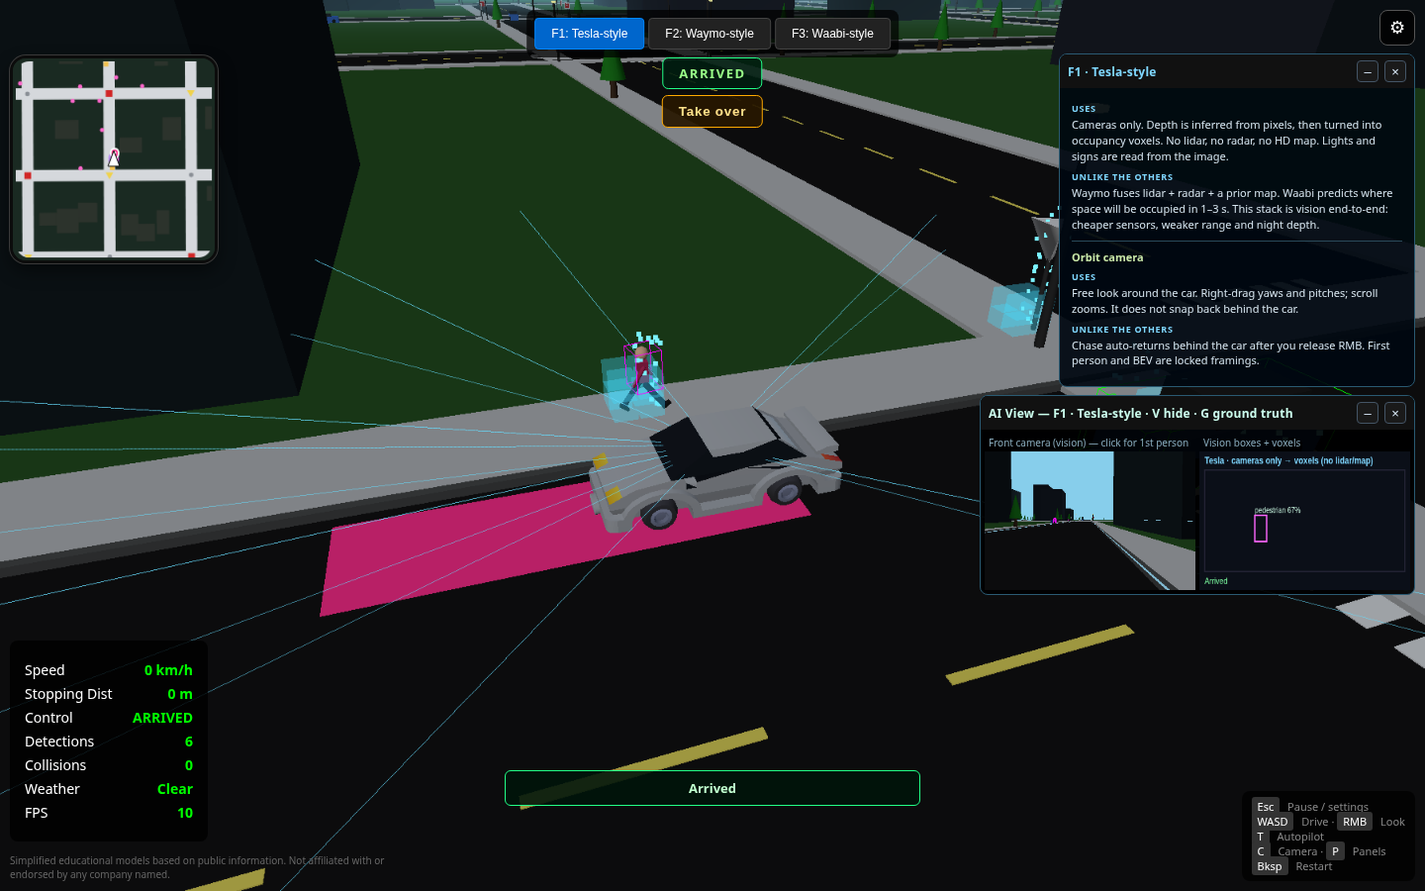
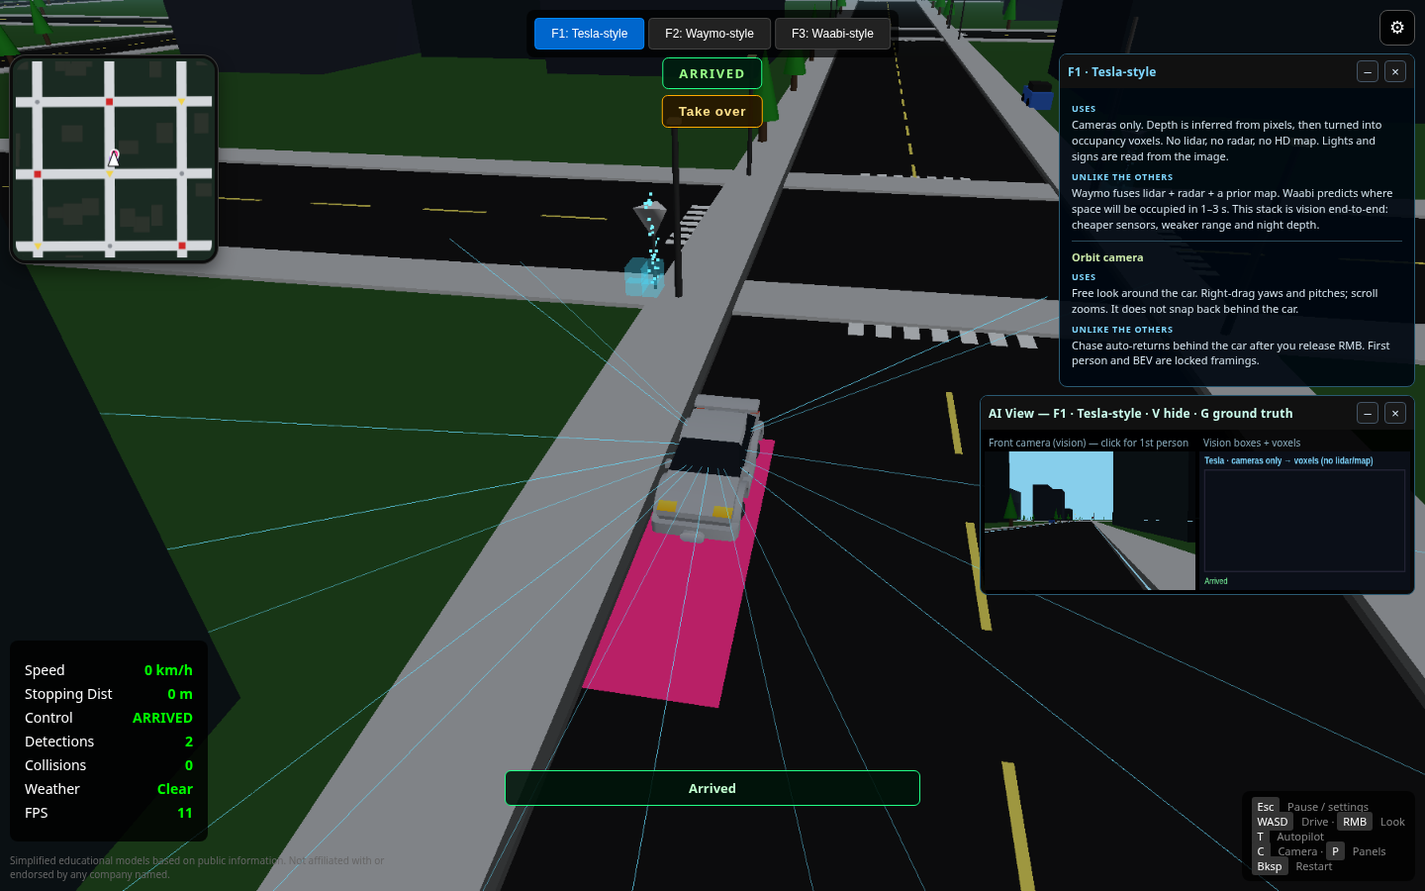
fix: park 0.3 m off the curb with heading-aware asphalt tests
PULL_OVER_OFFSET is 5.775 m so the sedan's right edge sits ~0.3 m
inside the curb. The pink bay is 8.4×2.45 m with its outer edge flush
on the curb. Arrival tests use onArrivalAsphalt / distanceToRightCurb
for any heading — |x|<7 and pointOnAsphalt were N–S-only oracles.

diff --git a/game/src/sim/destination.test.ts b/game/src/sim/destination.test.ts
@@ -4,15 +4,34 @@ import { normalizeAngle, vec3, vec3Length } from './math';
 import { createPlannerState, planTrajectory, remainingRouteDistance } from '../planning/planner';
 import { createEgoState, updateVehicle, vehicleInputFromAccel } from './vehicle';
 import {
+  CURB_CLEARANCE,
   PULL_OVER_OFFSET,
+  ROAD_HALF,
+  distanceToRightCurb,
   lateralFromCenter,
-  pointOnAsphalt,
+  onArrivalAsphalt,
   sedanCorners,
   snapHeadingToGrid,
   tripRoute,
 } from './rightLane';
 import { ROUTE_DEST } from '../ui/minimapRoute';
 import { computeDecision } from '../render/perceptionViz';
+
+/** Arrival pose: every corner on this heading's asphalt, ~0.3 m off the right curb. */
+function expectOnArrivalBay(x: number, y: number, yaw: number): void {
+  const corners = sedanCorners(x, y, yaw);
+  for (const c of corners) {
+    expect(onArrivalAsphalt(c.x, c.y, yaw)).toBe(true);
+    expect(distanceToRightCurb(c.x, c.y, yaw)).toBeGreaterThan(0);
+  }
+  const lat = lateralFromCenter(x, y, yaw);
+  expect(lat).toBeGreaterThan(PULL_OVER_OFFSET - 0.45);
+  expect(lat).toBeLessThan(PULL_OVER_OFFSET + 0.45);
+  const rightGap = Math.min(...corners.map((c) => distanceToRightCurb(c.x, c.y, yaw)));
+  expect(rightGap).toBeGreaterThan(0.12);
+  expect(rightGap).toBeLessThan(CURB_CLEARANCE + 0.35);
+  expect(ROAD_HALF - lat).toBeGreaterThan(CURB_CLEARANCE + 0.5);
+}
 
 describe('roadside destination arrival', () => {
   it('uses a hot-pink destination colour', () => {
@@ -48,7 +67,7 @@ describe('roadside destination arrival', () => {
       planner = newState;
       ego = updateVehicle(ego, vehicleInputFromAccel(output.acceleration, output.steering), dt);
       const { x, y } = ego.transform.position;
-      if (Math.abs(x) > 7.2) leftAsphalt = true;
+      if (!onArrivalAsphalt(x, y, ego.transform.rotation, 7.2)) leftAsphalt = true;
       if (vec3Length(ego.velocity) < 0.25 && Math.hypot(x - dest.x, y - dest.y) < 4) break;
     }
     const speed = vec3Length(ego.velocity);
@@ -87,25 +106,11 @@ describe('roadside destination arrival', () => {
     }
     const yawErr = Math.abs(normalizeAngle(ego.transform.rotation - roadHeading));
     expect(yawErr).toBeLessThan(5 * Math.PI / 180);
-    const corners = sedanCorners(
+    expectOnArrivalBay(
       ego.transform.position.x,
       ego.transform.position.y,
       ego.transform.rotation,
     );
-    for (const c of corners) {
-      expect(pointOnAsphalt(c.x, c.y)).toBe(true);
-      expect(Math.abs(c.x)).toBeLessThan(7);
-    }
-    expect(lateralFromCenter(
-      ego.transform.position.x,
-      ego.transform.position.y,
-      ego.transform.rotation,
-    )).toBeGreaterThan(4.4);
-    expect(lateralFromCenter(
-      ego.transform.position.x,
-      ego.transform.position.y,
-      ego.transform.rotation,
-    )).toBeLessThan(6.2);
   });
 
   it('holds with an Arrived banner after the live sim reaches the pad', () => {
@@ -124,14 +129,11 @@ describe('roadside destination arrival', () => {
       sim.getState().ego.transform.rotation - snapHeadingToGrid(sim.getTripHeading()),
     ));
     expect(yawErr).toBeLessThan(5 * Math.PI / 180);
-    for (const c of sedanCorners(
+    expectOnArrivalBay(
       sim.getState().ego.transform.position.x,
       sim.getState().ego.transform.position.y,
       sim.getState().ego.transform.rotation,
-    )) {
-      expect(pointOnAsphalt(c.x, c.y)).toBe(true);
-      expect(Math.abs(c.x)).toBeLessThan(7);
-    }
+    );
     const banner = computeDecision({
       stack: 'tesla',
       ego: sim.getState().ego,
@@ -207,14 +209,11 @@ describe('roadside destination arrival', () => {
     const yawErr = Math.abs(normalizeAngle(ego.transform.rotation - (-Math.PI / 2)));
     expect(yawErr).toBeLessThan(5 * Math.PI / 180);
     expect(ego.transform.position.x).toBeLessThan(-4);
-    for (const c of sedanCorners(
+    expectOnArrivalBay(
       ego.transform.position.x,
       ego.transform.position.y,
       ego.transform.rotation,
-    )) {
-      expect(pointOnAsphalt(c.x, c.y)).toBe(true);
-      expect(Math.abs(c.x)).toBeLessThan(7);
-    }
+    );
   });
 
   it('live sim reaches an opposite-side pad and holds Arrived without a cruise-stuck stop', () => {
@@ -245,6 +244,11 @@ describe('roadside destination arrival', () => {
       sim.getState().ego.transform.rotation - snapHeadingToGrid(sim.getTripHeading()),
     ));
     expect(yawErr).toBeLessThan(5 * Math.PI / 180);
+    expectOnArrivalBay(
+      sim.getState().ego.transform.position.x,
+      sim.getState().ego.transform.position.y,
+      sim.getState().ego.transform.rotation,
+    );
     expect(computeDecision({
       stack: 'tesla',
       ego: sim.getState().ego,

diff --git a/game/src/sim/rightLane.ts b/game/src/sim/rightLane.ts
@@ -11,16 +11,27 @@ export const LANE_OFFSET = 3.5;
 /** Keep the tyres off the yellow line and out of the oncoming lane. */
 export const LANE_INNER = 1.6;
 export const LANE_OUTER = 5.8;
-/** Parked offset: right of the driving lane. Sedan half-width 0.925 → right edge ~6.3 m, curb at 7 m. */
-export const PULL_OVER_OFFSET = 5.4;
+/** Fitted sedan half-width (1.85 m body). */
+export const SEDAN_HALF_WIDTH = 0.925;
+/** Parked tyre-to-curb gap. */
+export const CURB_CLEARANCE = 0.3;
+/** Asphalt half-width of the 14 m roads. Curb face sits here. */
+export const ROAD_HALF = 7;
+/**
+ * Parked offset: right-hand bay, ~0.3 m off the curb.
+ * 7 − 0.3 − 0.925 = 5.775 m. Right edge at 6.7 m, pad outer flush at 7 m.
+ */
+export const PULL_OVER_OFFSET = ROAD_HALF - CURB_CLEARANCE - SEDAN_HALF_WIDTH;
+/** Pink bay, long axis along the road. */
+export const PAD_ALONG = 8.4;
+/** Pink bay width: centered on the parked pose, outer edge at the curb. */
+export const PAD_WIDTH = 2 * (ROAD_HALF - PULL_OVER_OFFSET);
 /** Ease laterally onto the pad over this many metres. */
 export const PULL_OVER_LENGTH = 16;
 /** Straight, road-parallel tail so the nose matches the curb at the stop. */
 export const PULL_OVER_STRAIGHT = 10;
 /** Keep the pad out of the intersection box. */
 export const DEST_INTERSECTION_CLEAR = 16;
-/** Asphalt half-width of the 14 m roads. */
-export const ROAD_HALF = 7;
 /** City grid step (matches `world.ts` MAP_BLOCK). */
 export const GRID_STEP = 100;
 /** Click this far left of the naive approach counts as an opposite-side dest. */
@@ -327,7 +338,7 @@ export function sedanCorners(x: number, y: number, yaw: number): Array<{ x: numb
   const uy = Math.sin(yaw);
   const r = headingRight(yaw);
   const hl = 2.35;
-  const hw = 0.925;
+  const hw = SEDAN_HALF_WIDTH;
   const out: Array<{ x: number; y: number }> = [];
   for (const s of [-1, 1]) {
     for (const t of [-1, 1]) {
@@ -339,6 +350,22 @@ export function sedanCorners(x: number, y: number, yaw: number): Array<{ x: numb
 
 export function pointOnAsphalt(x: number, y: number, half = ROAD_HALF): boolean {
   return Math.abs(x - nearestGridLine(x)) <= half || Math.abs(y - nearestGridLine(y)) <= half;
+}
+
+/**
+ * On the asphalt of the road `heading` is following — not the cross street.
+ * A southbound corner uses |x − axis| < 7; an eastbound corner uses |y − axis| < 7.
+ */
+export function onArrivalAsphalt(x: number, y: number, heading: number, half = ROAD_HALF): boolean {
+  const yaw = snapHeadingToGrid(heading);
+  const ns = Math.abs(Math.sin(yaw)) >= Math.abs(Math.cos(yaw));
+  if (ns) return Math.abs(x - nearestGridLine(x)) < half;
+  return Math.abs(y - nearestGridLine(y)) < half;
+}
+
+/** Metres from a point to the right-hand curb of `heading`'s road. Negative = over the sidewalk. */
+export function distanceToRightCurb(x: number, y: number, heading: number): number {
+  return ROAD_HALF - lateralFromCenter(x, y, heading);
 }
 
 /** Replace the last metres of a lane route with an ease, then a road-parallel tail onto `dest`. */

diff --git a/game/src/sim/rightLane.test.ts b/game/src/sim/rightLane.test.ts
@@ -4,15 +4,22 @@ import { vec3 } from './math';
 import { createPlannerState, planTrajectory } from '../planning/planner';
 import { createEgoState, updateVehicle, vehicleInputFromAccel } from './vehicle';
 import {
+  CURB_CLEARANCE,
   LANE_OFFSET,
+  PAD_WIDTH,
   PULL_OVER_OFFSET,
+  ROAD_HALF,
+  SEDAN_HALF_WIDTH,
+  distanceToRightCurb,
   inRightLane,
   lateralFromCenter,
   mergeIntoLaneRoute,
+  onArrivalAsphalt,
   placeInRightLane,
   roadsideDestination,
   resolveTripDestination,
   rightLaneRoute,
+  sedanCorners,
   straddlesCenter,
   tripRoute,
   turnKind,
@@ -138,6 +145,45 @@ describe('right-hand traffic lanes', () => {
     const mid = route[Math.floor(route.length / 2)]!;
     expect(mid.x).toBeLessThan(tail.x);
     expect(inRightLane(mid.x, mid.y, Math.PI / 2)).toBe(true);
+  });
+
+  it('keeps the parked sedan ~0.3 m off the curb on every heading', () => {
+    expect(PULL_OVER_OFFSET).toBeCloseTo(ROAD_HALF - CURB_CLEARANCE - SEDAN_HALF_WIDTH);
+    expect(PAD_WIDTH).toBeCloseTo(2 * (ROAD_HALF - PULL_OVER_OFFSET));
+    const poses: Array<{ x: number; y: number; yaw: number }> = [
+      { x: PULL_OVER_OFFSET, y: 40, yaw: Math.PI / 2 },
+      { x: -PULL_OVER_OFFSET, y: 78, yaw: -Math.PI / 2 },
+      { x: 50, y: -PULL_OVER_OFFSET, yaw: 0 },
+      { x: -50, y: PULL_OVER_OFFSET, yaw: Math.PI },
+    ];
+    for (const pose of poses) {
+      const corners = sedanCorners(pose.x, pose.y, pose.yaw);
+      for (const c of corners) {
+        expect(onArrivalAsphalt(c.x, c.y, pose.yaw)).toBe(true);
+        expect(distanceToRightCurb(c.x, c.y, pose.yaw)).toBeGreaterThan(0.12);
+      }
+      const rightGap = Math.min(...corners.map((c) => distanceToRightCurb(c.x, c.y, pose.yaw)));
+      expect(rightGap).toBeCloseTo(CURB_CLEARANCE, 2);
+      const padOuter = lateralFromCenter(pose.x, pose.y, pose.yaw) + PAD_WIDTH / 2;
+      expect(padOuter).toBeCloseTo(ROAD_HALF, 5);
+    }
+  });
+
+  it('eastbound asphalt follows the Y curb — |x|<7 is the wrong oracle', () => {
+    const dest = roadsideDestination(vec3(50, 0, 0), 0);
+    expect(dest.y).toBeCloseTo(-PULL_OVER_OFFSET);
+    const corners = sedanCorners(dest.x, dest.y, 0);
+    for (const c of corners) {
+      expect(Math.abs(c.x)).toBeGreaterThan(7);
+      expect(onArrivalAsphalt(c.x, c.y, 0)).toBe(true);
+      expect(distanceToRightCurb(c.x, c.y, 0)).toBeGreaterThan(0.12);
+    }
+    const overCurb = sedanCorners(50, -(ROAD_HALF + 0.4), 0);
+    const rightmost = overCurb.reduce((a, b) => (
+      distanceToRightCurb(a.x, a.y, 0) < distanceToRightCurb(b.x, b.y, 0) ? a : b
+    ));
+    expect(onArrivalAsphalt(rightmost.x, rightmost.y, 0)).toBe(false);
+    expect(distanceToRightCurb(rightmost.x, rightmost.y, 0)).toBeLessThan(0);
   });
 
   it('snaps an opposite-side click onto the left curb and arrives heading south', () => {

diff --git a/game/src/main.ts b/game/src/main.ts
@@ -8,7 +8,7 @@ import { Simulation } from './sim/simulation';
 import { vec3Length, egoToWorld, clamp } from './sim/math';
 import { formatGear } from './sim/vehicle';
 import { nearestGridLine, snapToRoad, snapTripEnd, roadRoute } from './sim/world';
-import { destinationPinWorld } from './sim/rightLane';
+import { destinationPinWorld, PAD_ALONG, PAD_WIDTH } from './sim/rightLane';
 import { COCKPIT, HAND_LOCK_DEG, handWheelRotation } from './sim/cabinView';
 import {
   applyCameraLayers,
@@ -468,7 +468,7 @@ function createDestinationMarker(): THREE.Group {
   });
   const white = new THREE.MeshLambertMaterial({ color: 0xffffff });
 
-  const pad = new THREE.Mesh(new THREE.PlaneGeometry(8.4, 2.4), pinkPad);
+  const pad = new THREE.Mesh(new THREE.PlaneGeometry(PAD_ALONG, PAD_WIDTH), pinkPad);
   pad.rotation.x = -Math.PI / 2;
   pad.position.y = 0.035;
   pad.receiveShadow = true;
@@ -476,7 +476,7 @@ function createDestinationMarker(): THREE.Group {
 
   const pin = new THREE.Group();
   pin.name = 'dest-pin';
-  pin.position.set(3.15, 0, 1.1);
+  pin.position.set(PAD_ALONG / 2 - 1.05, 0, PAD_WIDTH / 2 - 0.12);
   const stem = new THREE.Mesh(new THREE.CylinderGeometry(0.05, 0.05, 1.85, 8), white);
   stem.position.y = 0.95;
   stem.castShadow = true;
@@ -3024,6 +3024,8 @@ function applyDemo(kind: string) {
     tripStart = { x: 0, y: 50 };
     tripEnd = { x: 0, y: 78 };
     beginGame('autopilot');
+    simulation.getState().trafficVehicles = [];
+    simulation.getState().pedestrians = [];
     setCameraMode('orbit');
     orbitYaw = 0.2;
     orbitPitch = 0.34;
@@ -3035,6 +3037,8 @@ function applyDemo(kind: string) {
     tripStart = { x: 0, y: 55 };
     tripEnd = { x: -5, y: 78 };
     beginGame('autopilot');
+    simulation.getState().trafficVehicles = [];
+    simulation.getState().pedestrians = [];
     setCameraMode('orbit');
     orbitYaw = 0.15;
     orbitPitch = 0.38;
@@ -3463,6 +3467,10 @@ async function init() {
     switchStack,
     getTripDestination: () => simulation.getTripDestination(),
     hasArrived: () => simulation.hasArrived(),
+    clearAgents() {
+      simulation.getState().trafficVehicles = [];
+      simulation.getState().pedestrians = [];
+    },
     getTripHeading: () => simulation.getTripHeading(),
     getEgo: () => {
       const e = simulation.getState().ego;

diff --git a/wiki/systems/planning.md b/wiki/systems/planning.md
@@ -8,7 +8,7 @@ sources: [13, 18, 20, 25, 27, 28, 29, 30, 33]
 
 `planTrajectory` is a rule-based pure-pursuit follower. It aims a short look-ahead along `route`, slows before a sharp bend (`nextCorner`), and stays at ~3.8 m/s until the nose matches the new segment so the car does not cut grass ([[pr-18]]). Comfort decel is ~3 m/s²; emergency / oracle is ~9 m/s² ([[pr-27]]). Both go through `vehicleInputFromAccel` onto the sedan ABS brake in `updateVehicle` — not a separate integrator.
 
-Map clicks still snap to the road axis (`snapToRoad`, [[pr-13]]). End clicks use `snapTripEnd` so a junction click stays on the start road and keeps the clicked curb side. Ego trips then follow `tripRoute`: a Manhattan `rightLaneRoute` (right turns cut the near corner; left turns go wide, [[pr-20]], which **supersedes** driving the centerline `roadRoute` for `beginTrip`) plus a lateral ease and a **road-parallel tail** onto a roadside pad at `PULL_OVER_OFFSET` (5.4 m). The pad is on the **right-hand curb of the arrival heading**. A click left of that approach is an opposite-side dest: the pad stays on that curb and the route does a **legal left U-turn at the next intersection** (never a mid-block median cross), then pulls over. Same-road start/end no longer detour through the next grid crossing. The pad is slid backward if the click sits in a junction. `remainingRouteDistance` creeps in the last 12 m and stops in the last 4 m. On the pad the sim sets `arrived`, holds the brakes, and the banner reads **Arrived** ([[pr-30]]). Standing still in-lane while cruising with the pad still metres away triggers `reengageAutopilot()`. The 3D pin sits at the front-right of the pad and hides once parked so it does not pierce the body.
+Map clicks still snap to the road axis (`snapToRoad`, [[pr-13]]). End clicks use `snapTripEnd` so a junction click stays on the start road and keeps the clicked curb side. Ego trips then follow `tripRoute`: a Manhattan `rightLaneRoute` (right turns cut the near corner; left turns go wide, [[pr-20]], which **supersedes** driving the centerline `roadRoute` for `beginTrip`) plus a lateral ease and a **road-parallel tail** onto a roadside pad at `PULL_OVER_OFFSET` (5.775 m, ~0.3 m tyre-to-curb). The pad is on the **right-hand curb of the arrival heading**. A click left of that approach is an opposite-side dest: the pad stays on that curb and the route does a **legal left U-turn at the next intersection** (never a mid-block median cross), then pulls over. Same-road start/end no longer detour through the next grid crossing. The pad is slid backward if the click sits in a junction. `remainingRouteDistance` creeps in the last 12 m and stops in the last 4 m. On the pad the sim sets `arrived`, holds the brakes, and the banner reads **Arrived** ([[pr-30]]). Standing still in-lane while cruising with the pad still metres away triggers `reengageAutopilot()`. The 3D pin sits at the front-right of the pad and hides once parked so it does not pierce the body.
 
 `input.rule` from `decideIntersection` caps `desiredSpeed` and forces a stop when `mustStop` ([[traffic-rules]]). `obstacleAhead` and `findClosestObstacleAhead` skip roadside statics (poles, trees, signs, buildings), so a corner pole does not full-brake a turn ([[pr-28]]). Contact with those objects still collides ([[collisions]]).
 

diff --git a/wiki/systems/testing.md b/wiki/systems/testing.md
@@ -23,7 +23,7 @@ Collision-response tests live in `collision.test.ts` (OBB/capsule overlap, spati
 
 `poleTurn.test.ts` drives left / right / straight through a grid corner that has city poles and asserts `obstacleAhead` never full-brakes on them.
 
-`destination.test.ts` / `rightLane.test.ts` cover the roadside pad (right-curb offset, slide off junctions, `tripRoute` tail) and a planner+vehicle pull-over that stops on the pad. Parked pose asserts heading error **< 5°** and every sedan corner on asphalt (`|x| < 7`). The live sim then holds with banner **Arrived**. Opposite-side clicks assert a U-turn (route goes past the next junction) and Arrived on the left curb heading-aligned, with no cruise-stuck in-lane stop. `perceptionViz.test.ts` asserts world-space `%` sprites stay off. Minimap tests assert the dest pin is `#ff2d8a` and still projects in manual. `?demo=arrive` / `?demo=arrive-opp` are the screenshot rigs.
+`destination.test.ts` / `rightLane.test.ts` cover the roadside pad (right-curb offset 5.775 m, slide off junctions, `tripRoute` tail) and a planner+vehicle pull-over that stops on the pad. Parked pose asserts heading error **< 5°** and every sedan corner on the **arrival road** (`onArrivalAsphalt` + `distanceToRightCurb` ~0.3 m), not `|x| < 7` (N–S only) or `pointOnAsphalt` (OR of both axes). Eastbound unit cases use the Y curb so `|x| < 7` would wrongly fail x≈50. The live sim then holds with banner **Arrived**. Opposite-side clicks assert a U-turn (route goes past the next junction) and Arrived on the left curb heading-aligned, with no cruise-stuck in-lane stop. `perceptionViz.test.ts` asserts world-space `%` sprites stay off. Minimap tests assert the dest pin is `#ff2d8a` and still projects in manual. `?demo=arrive` / `?demo=arrive-opp` are the screenshot rigs (those two demos clear traffic and pedestrians so a ped cannot steal the arrival).
 
 Screenshots used in PRs and `README.md` sit in `docs/screenshots/`. They are captured from the running Vite app (headless Chrome or a live session), not from unit tests. Intersection shots 16–20 use `?seed=3` and `?demo=`. Cabin/sedan shots for [[pr-22]] are `cabin3_cockpit_*.png` (including `cabin3_cockpit_wide.png`), `cabin3_exterior_*.png` (including `cabin3_exterior_hood.png`), and `cabin3_wheel_closeup.png` (staged; **superseded** as a live-view record by the driving stills from [[pr-25]]). Traffic-flow shots 21–23 for [[pr-24]] use `?seed=3&demo=mix` and `?demo=stop`.
 

diff --git a/wiki/entities/right-lane.md b/wiki/entities/right-lane.md
@@ -6,9 +6,9 @@ sources: [20, 30, 33]
 
 # `rightLane.ts`
 
-Right-hand traffic geometry. Heading θ: right is `(sin θ, −cos θ)`. Eastbound right is −Y; northbound right is +X. `LANE_OFFSET` is 3.5 m (`LANE_INNER` 1.6 … `LANE_OUTER` 5.8). `PULL_OVER_OFFSET` is 5.4 m so a 1.85 m sedan parks with its right edge ~6.3 m, inside the curb at 7 m. `appendPullOver` eases laterally then adds a `PULL_OVER_STRAIGHT` (10 m) road-parallel tail.
+Right-hand traffic geometry. Heading θ: right is `(sin θ, −cos θ)`. Eastbound right is −Y; northbound right is +X. `LANE_OFFSET` is 3.5 m (`LANE_INNER` 1.6 … `LANE_OUTER` 5.8). `PULL_OVER_OFFSET` is `ROAD_HALF − CURB_CLEARANCE − SEDAN_HALF_WIDTH` = 5.775 m, so a 1.85 m sedan parks with its right edge at 6.7 m (~0.3 m off the curb face at 7 m). The pink bay is `PAD_ALONG` 8.4 m along-road × `PAD_WIDTH` 2.45 m lateral, centered on the parked pose so the outer edge sits flush on the curb. `appendPullOver` eases laterally then adds a `PULL_OVER_STRAIGHT` (10 m) road-parallel tail.
 
-`rightLaneRoute` builds a Manhattan trip in that lane: right turns cut the near corner; left turns go wide into the far right lane. `resolveTripDestination` puts the pad on the right curb of the arrival heading; a left-of-approach click sets `opposite` and `tripRoute` / `mergeIntoLaneRoute` insert `intersectionUTurn` at `nextIntersectionAhead`. Same-road corners are start→end only — they do not bounce through the next crossing. `mergeIntoLaneRoute` still cruises without a pad when there is no trip goal. `sedanCorners` / `pointOnAsphalt` are the parked-pose overlap checks.
+`rightLaneRoute` builds a Manhattan trip in that lane: right turns cut the near corner; left turns go wide into the far right lane. `resolveTripDestination` puts the pad on the right curb of the arrival heading; a left-of-approach click sets `opposite` and `tripRoute` / `mergeIntoLaneRoute` insert `intersectionUTurn` at `nextIntersectionAhead`. Same-road corners are start→end only — they do not bounce through the next crossing. `mergeIntoLaneRoute` still cruises without a pad when there is no trip goal. Parked-pose checks use `onArrivalAsphalt` (the arrival heading's road only) and `distanceToRightCurb` — not `pointOnAsphalt` / `|x| < 7`, which only match N–S streets.
 
 ## Key files
 

diff --git a/wiki/entities/main-ts.md b/wiki/entities/main-ts.md
@@ -10,7 +10,7 @@ Browser entry: Three.js scene, HUD, start menu, cameras, AI View, input, and the
 
 F3 BEV heatmaps are painted in `renderBEVHeatmaps` via `runWaabiStack` (the extracted `bevOverlay.ts` path from [[pr-26]] is gone).
 
-After [[pr-20]] it builds 3D stop/yield signs and stop-line quads, paints junction marks on the minimap, counts Tesla HUD detections from vision, and reads `?seed=` (default 3) plus `?demo=lane|left|right|stop|yield|mix|queue|arrive|arrive-opp`. Collision shots use `?demo=hit-car|hit-pole|hit-sign|hit-ped`. Fallen poles/signs and tumbling pedestrians are posed from `brokenFurniture` / ped tumble fields. A trip paints a pink 8.4×2.4 m pad; the pin sits at the pad's front-right and hides after `hasArrived()`. The same colour marks the minimap. End-map clicks use `snapTripEnd`.
+After [[pr-20]] it builds 3D stop/yield signs and stop-line quads, paints junction marks on the minimap, counts Tesla HUD detections from vision, and reads `?seed=` (default 3) plus `?demo=lane|left|right|stop|yield|mix|queue|arrive|arrive-opp`. Collision shots use `?demo=hit-car|hit-pole|hit-sign|hit-ped`. Fallen poles/signs and tumbling pedestrians are posed from `brokenFurniture` / ped tumble fields. A trip paints a pink 8.4×2.45 m pad (outer edge flush on the curb); the pin sits at the pad's front-right and hides after `hasArrived()`. The same colour marks the minimap. End-map clicks use `snapTripEnd`.
 
 [[pr-25]] locks the hood camera to cockpit eye anchors, stacks/drags the right-side HUD panels, and wires T + the centre banner to `reengageAutopilot`.
 

diff --git a/wiki/sources/pr-30.md b/wiki/sources/pr-30.md
@@ -10,10 +10,10 @@ sources: [30]
 
 Map trips end at a **hot-pink roadside pad** (`#ff2d8a`), not in the driving-lane center.
 
-- `tripRoute` = `rightLaneRoute` + a lateral ease and a road-parallel tail onto `PULL_OVER_OFFSET` (5.4 m). Parks heading-aligned, body on asphalt. Junction clicks slide the pad backward.
+- `tripRoute` = `rightLaneRoute` + a lateral ease and a road-parallel tail onto `PULL_OVER_OFFSET` (then 5.4 m; **superseded** by 5.775 m / ~0.3 m curb gap in [[pr-33]]). Parks heading-aligned, body on asphalt. Junction clicks slide the pad backward.
 - Opposite-side / wrong-curb placement and the in-lane 0 km/h cruise-stop are **superseded** by [[pr-33]] (legal U-turn + `snapTripEnd`).
-- On the pad: `arrived` holds the brakes, banner **Arrived**, Control **ARRIVED**. The 3D pin sits at the front-right of the 8.4×2.4 m pad and hides when parked.
-- Tests: parked heading error < 5°, every sedan corner on asphalt (`|x| < 7`), live sim holds Arrived.
+- On the pad: `arrived` holds the brakes, banner **Arrived**, Control **ARRIVED**. The 3D pin sits at the front-right of the pad (then 8.4×2.4 m; **superseded** by 8.4×2.45 m flush-to-curb in [[pr-33]]) and hides when parked.
+- Tests: parked heading error < 5°, every sedan corner on asphalt (`|x| < 7` — **superseded** by heading-aware `onArrivalAsphalt` in [[pr-33]]), live sim holds Arrived.
 - Minimap: the same `#ff2d8a` pin whenever a trip exists, including manual.
 - `?demo=arrive` is a short mid-block northbound trip for shots.
 

diff --git a/wiki/sources/pr-33.md b/wiki/sources/pr-33.md
@@ -13,6 +13,9 @@ sources: [33]
 - Opposite-side routes go to the next intersection and make a **legal left U-turn** (no mid-block median cross), then pull over so the pad is on the right.
 - Autopilot that sits in-lane at 0 km/h while cruising, pad still far, calls `reengageAutopilot()`.
 - World-space green `%` confidence sprites are off (`DRAW_WORLD_LABEL_SPRITES`). Labels stay on the AI View canvas.
+- Parked offset is `7 − 0.3 − 0.925` = **5.775 m** (right edge ~0.3 m off the curb). The pink bay is 8.4 × 2.45 m, outer edge flush on the curb.
+- Arrival tests use `onArrivalAsphalt` / `distanceToRightCurb` for any heading. `|x| < 7` and `pointOnAsphalt` are the wrong oracle (N–S only / both road axes).
+- `?demo=arrive` / `arrive-opp` clear traffic and pedestrians so the pad shots are reproducible.
 
 ## Why
 

diff --git a/wiki/log.md b/wiki/log.md
@@ -89,3 +89,5 @@ Append-only. `grep "^## \[" wiki/log.md | tail -5`
 ## [2026-10-13] ingest | PR #30 park parallel on asphalt, hide pin, Arrived hold
 
 ## [2026-10-14] ingest | PR #33 opposite-side pad, legal U-turn, HUD % sprite
+
+## [2026-10-14] ingest | PR #33 parked offset 5.775 m / heading-aware curb tests
